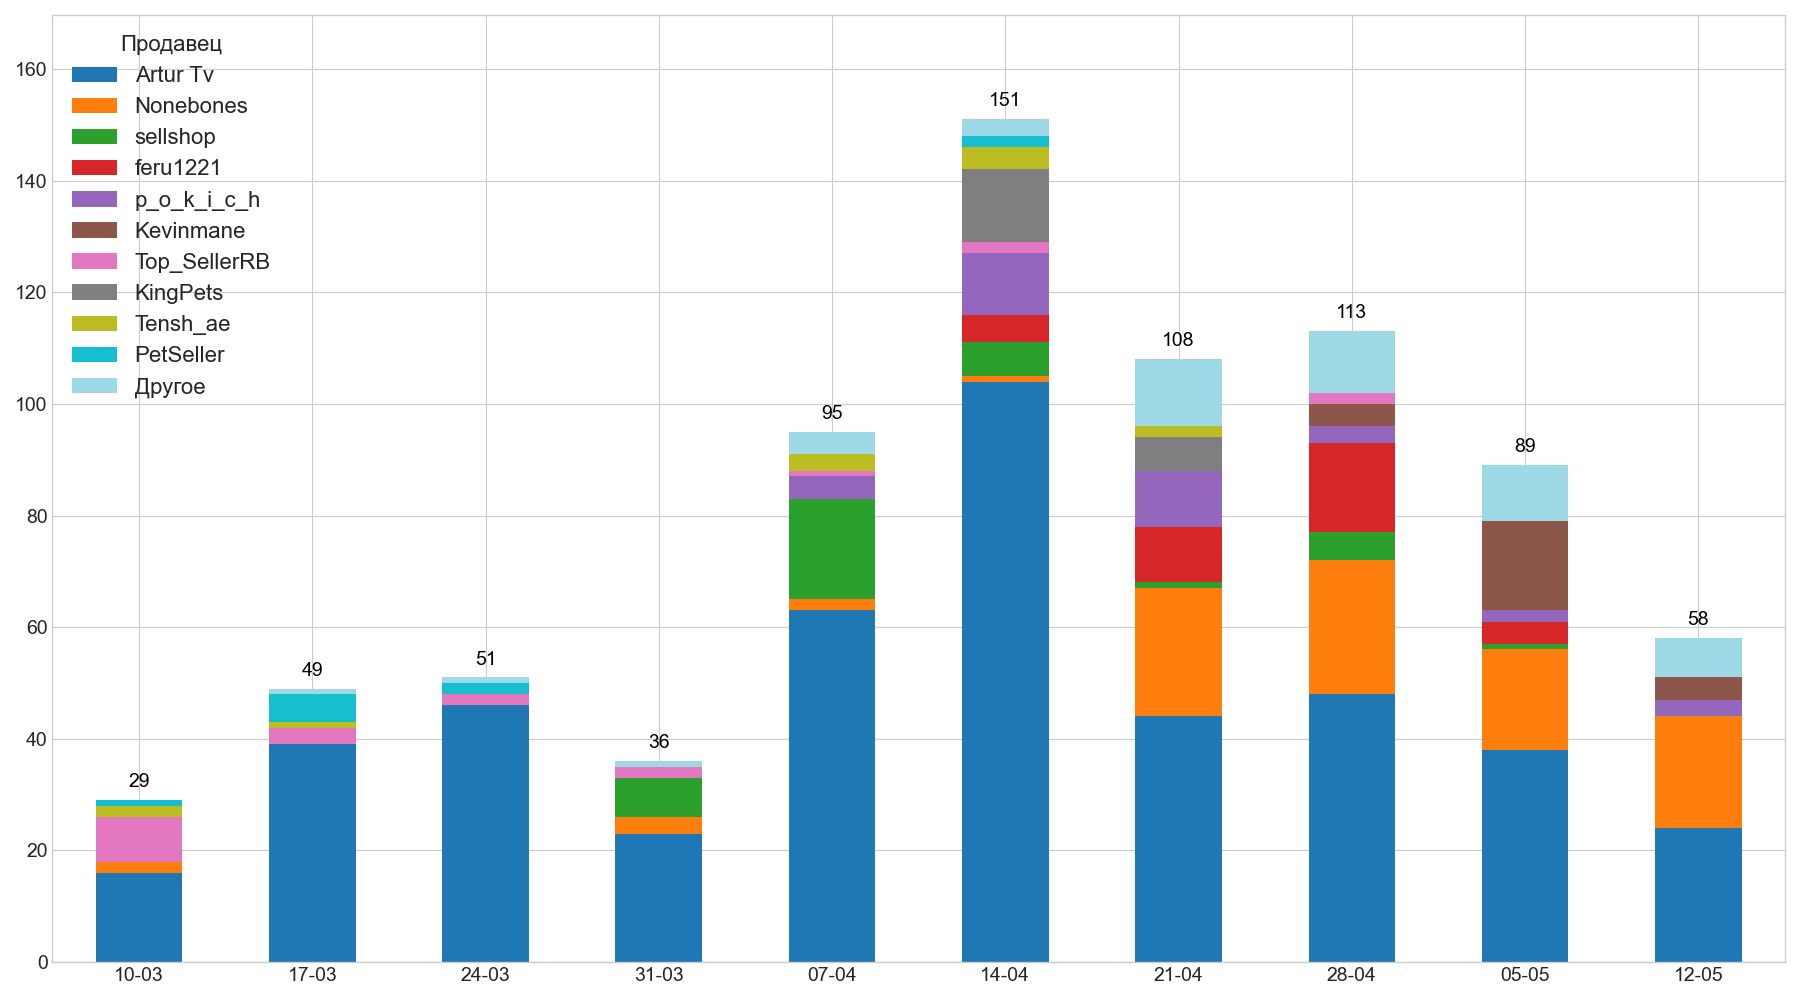
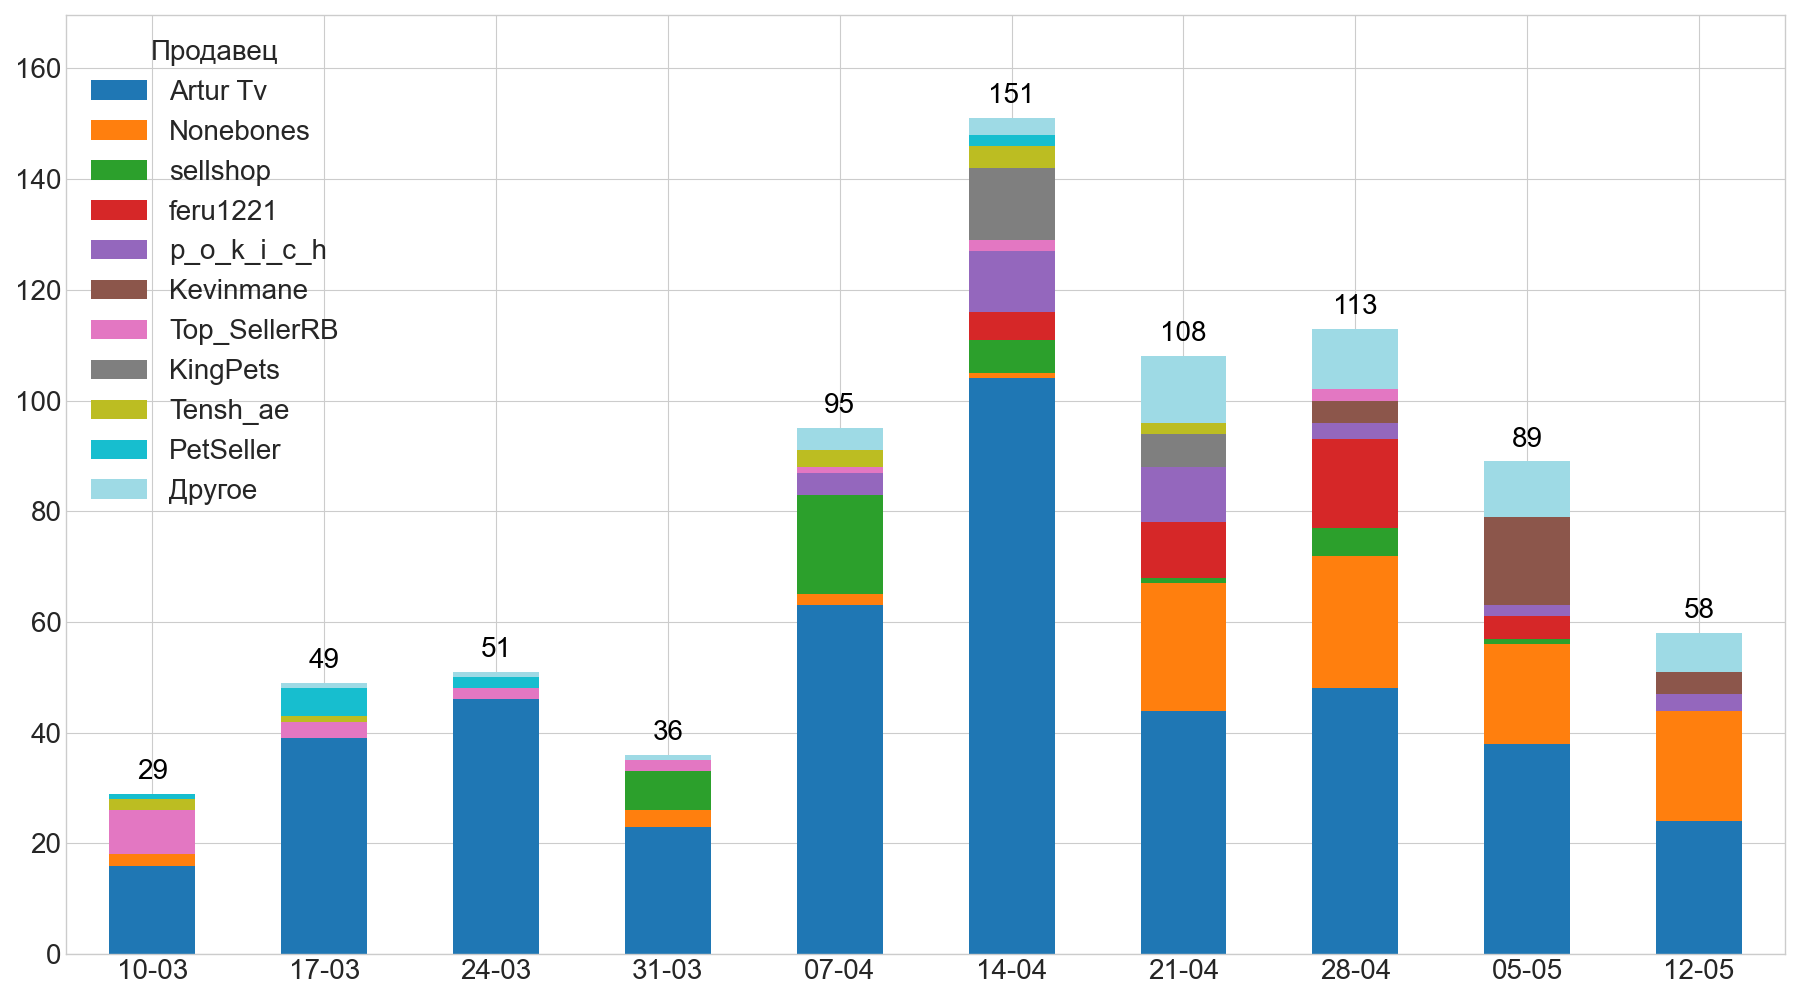
Stacked Bar Charts for Weekly Report. Change font sizes

diff --git a/transform_data.py b/transform_data.py
@@ -15,11 +15,11 @@ CHARTS_DIR = Path("output_charts")
 N_TOP_COLUMNS_FOR_CHART = 10
 
 # --- Шрифты ---
-AXIS_LABEL_FONTSIZE = 14
-AXIS_TICKS_FONTSIZE = 14
-LEGEND_FONTSIZE = 16
-TITLE_FONTSIZE = 12
-BAR_LABEL_FONTSIZE = 14
+AXIS_LABEL_FONTSIZE = 20
+AXIS_TICKS_FONTSIZE = 20
+LEGEND_FONTSIZE = 20
+TITLE_FONTSIZE = 20
+BAR_LABEL_FONTSIZE = 20
 
 # Расположение легенды:
 # Строковые значения: 'best', 'upper right', 'upper left', 'lower left', 'lower right',
